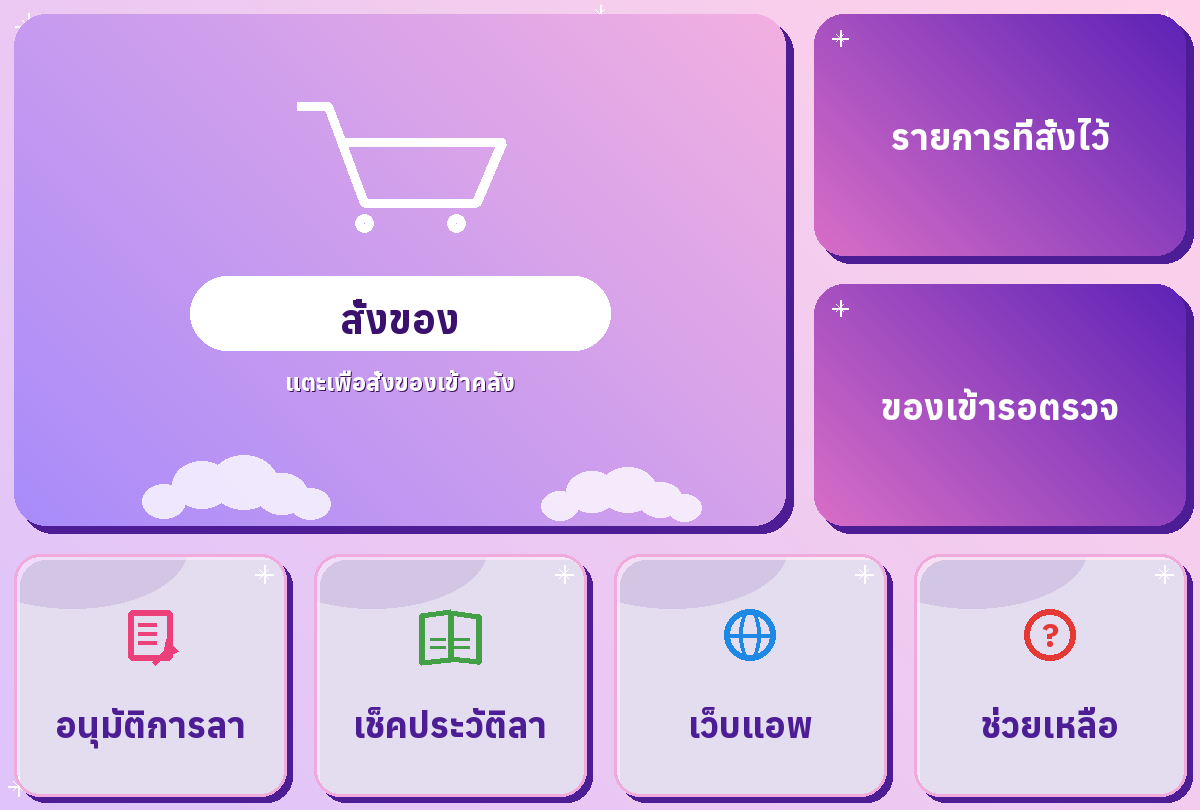
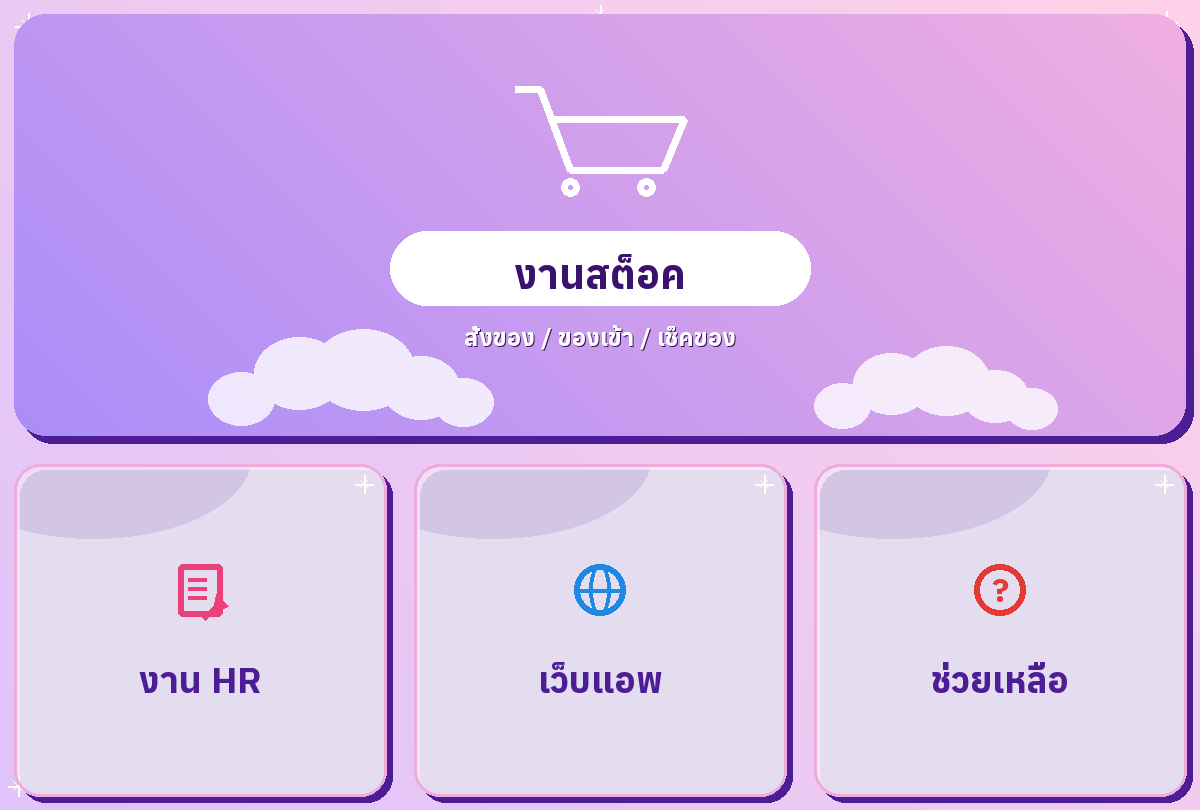
Fix stock-in approve race condition, add undo command, redesign boss/dev menu
addMovement() only appended to stock_movements while updateMovement() did a full
read-modify-write overwrite on the same sheet — a race between the two could silently
drop a just-approved movement (found via production data audit: 12 matched stock-in
requests referencing movement_ids that never landed, 2026-08-01..05). Added
verify-after-append retry to addMovement(), and backfilled the 7 unique missing
movements so those approved quantities actually reflect in stock now.

Added a LINE undo path ("แก้ไขของเข้า") for approve/reject mistakes: undoStockInDecision()
reverses a matched request via a compensating adjust movement (never deletes history) and
resets the request to pending; a rejected request just resets to pending. Also unlinks
any matched order-lot so it goes back to the queue.

Redesigned the boss/dev rich menu: 8 buttons was too cramped, consolidated into the
same hero+3-card structure as the staff tier — "งานสต็อค" and "งาน HR" now open a LINE
quick reply for their sub-actions instead of each getting a dedicated button. Verified
scope stays boss/dev-only (stock/staff tier files untouched) and every quick-reply
option maps to a real existing trigger.

diff --git a/api/sheet-tools.js b/api/sheet-tools.js
@@ -11,7 +11,7 @@ import {
 } from './_lib/leaveCoverage.js'
 import { applyScheduleOverrides, LEGACY_OVERRIDE_EXEMPT_CODES } from './_lib/scheduleOverrides.js'
 import { isoDate } from './_lib/dates.js'
-import opInventory, { computeLowStockList, createOrderRequest, createOrderRequestForGroup, loadOrderGroups, addStockInRequest, matchStockInRequest, rejectStockInRequest, editStockInRequest, getStockInRequestById, loadStockInRequests, loadItemsWithBalance, isPackagingItem } from './_lib/inventory.js'
+import opInventory, { computeLowStockList, createOrderRequest, createOrderRequestForGroup, loadOrderGroups, addStockInRequest, matchStockInRequest, rejectStockInRequest, undoStockInDecision, editStockInRequest, getStockInRequestById, loadStockInRequests, loadItemsWithBalance, isPackagingItem } from './_lib/inventory.js'
 import opImportTracking from './_lib/importTracking.js'
 
 // ปิด body parser อัตโนมัติของ Vercel — ต้องอ่าน raw body เองเพื่อตรวจลายเซ็น LINE webhook (HMAC ต้องใช้ byte ดิบ)
@@ -1343,6 +1343,14 @@ const BOSS_LEAVE_HISTORY_TRIGGER = 'เช็คประวัติ'
 // เพดาน 10 รายการต่อการ์ด เกินกว่านั้นให้กดปุ่มเปิดเว็บไปดูที่ Stock Movement แทน (LINE การ์ดยาวเกินไปอ่านยาก)
 const ORDER_LIST_TRIGGER = 'รายการที่สั่งไว้'
 const ORDER_LIST_LIMIT = 10
+// ปุ่ม "แก้ไขของเข้า" — ย้อนกลับ approve/ปฏิเสธที่กดผิดใน LINE (owner ขอ 2026-08-11 คู่กับบั๊ก race
+// condition ที่เจอ: บาง approve ไม่เข้า stock จริง) แสดงรายการล่าสุดที่ approve/ปฏิเสธไปแล้วให้เลือกย้อนกลับ
+const STOCK_IN_UNDO_TRIGGER = 'แก้ไขของเข้า'
+const STOCK_IN_UNDO_LIMIT = 5 // LINE reply รับได้สูงสุด 5 ข้อความต่อครั้ง (1 การ์ด = 1 ข้อความ)
+// รวบปุ่ม boss/dev ที่แน่นเกินไป (8 ปุ่ม) เหลือ hero เดียวต่อหมวด — เลือกจริงผ่าน quick reply ที่ยิง
+// ข้อความเดิม (เช่น "สั่งของ") กลับเข้ามาเหมือนพิมพ์เอง ไม่ต้องเขียน handler ใหม่ (owner ขอ 2026-08-11)
+const STOCK_MENU_TRIGGER = 'งานสต็อค'
+const HR_MENU_TRIGGER = 'งาน HR'
 const appWebUrl = (tab) => `${APP_BASE_URL}/${tab ? `?tab=${encodeURIComponent(tab)}` : ''}`
 
 async function handleOrderListCommand(event) {
@@ -1378,6 +1386,68 @@ async function handleOrderListCommand(event) {
       body: { type: 'box', layout: 'vertical', paddingAll: '10px', spacing: 'xs', backgroundColor: ORDER_CARD.soft, contents: rows },
       ...(footerButtons.length ? { footer: { type: 'box', layout: 'horizontal', spacing: 'xs', paddingAll: '8px', backgroundColor: ORDER_CARD.base, contents: footerButtons } } : {}),
     },
+  }])
+}
+
+// รายการ approve/ปฏิเสธล่าสุด ให้เลือกย้อนกลับ (undoStockInDecision) — เผื่อกดผิด/มีของเข้าไม่ครบตามที่คิด
+async function handleStockInUndoListCommand(event) {
+  const lineUserId = event.source?.userId
+  const replyToken = event.replyToken
+  const approver = lineUserId ? await findStockApprover(lineUserId) : null
+  if (!approver) return replyMessage(replyToken, [{ type: 'text', text: 'เฉพาะ Boss หรือ Dev เท่านั้นที่แก้ไขย้อนหลังได้ค่ะ' }])
+  const all = await loadStockInRequests({ role: approver.role })
+  const decided = all.filter((r) => r.status === 'matched' || r.status === 'rejected')
+  decided.sort((a, b) => String(b.matched_at).localeCompare(String(a.matched_at)))
+  const recent = decided.slice(0, STOCK_IN_UNDO_LIMIT)
+  if (!recent.length) return replyMessage(replyToken, [{ type: 'text', text: 'ยังไม่มีรายการที่ approve หรือปฏิเสธไว้ค่ะ' }])
+  const items = await loadOrderableItems()
+  const cards = recent.map((r) => {
+    const item = items.find((it) => String(it.sku).toUpperCase() === String(r.sku).toUpperCase())
+    const label = item?.display_name || r.sku
+    const statusText = r.status === 'matched' ? `✅ Approve แล้ว × ${r.qty}${item?.unit || ''}` : '✗ ปฏิเสธแล้ว'
+    return {
+      type: 'flex', altText: `${label} — ${statusText}`,
+      contents: {
+        type: 'bubble', size: 'kilo',
+        header: stockCardHeader('แก้ไขของเข้า', `${(r.matched_at || '').slice(0, 10)} · โดย ${r.matched_by || '-'}`, '↩'),
+        body: { type: 'box', layout: 'vertical', paddingAll: '10px', spacing: 'xs', backgroundColor: STOCK_CARD.soft, contents: [stockInItemRow(r.id, label, statusText)] },
+        footer: { type: 'box', layout: 'horizontal', spacing: 'xs', paddingAll: '8px', backgroundColor: STOCK_CARD.base, contents: [
+          stockCardButton({ type: 'postback', label: 'ย้อนกลับ', data: `stockin-undo:${r.id}`, displayText: `ย้อนกลับ ${label}` }, true),
+        ] },
+      },
+    }
+  })
+  await replyMessage(replyToken, cards.slice(0, 5))
+}
+
+async function handleStockMenuCommand(event) {
+  const lineUserId = event.source?.userId
+  const replyToken = event.replyToken
+  const approver = lineUserId ? await findStockApprover(lineUserId) : null
+  if (!approver) return replyMessage(replyToken, [{ type: 'text', text: 'เฉพาะ Boss หรือ Dev เท่านั้นค่ะ' }])
+  return replyMessage(replyToken, [{
+    type: 'text', text: 'งานสต็อค — เลือกได้เลยค่ะ',
+    quickReply: { items: [
+      { type: 'action', action: { type: 'message', label: 'สั่งของ', text: 'สั่งของ' } },
+      { type: 'action', action: { type: 'message', label: 'ของเข้ารอตรวจ', text: STOCK_PENDING_TRIGGER } },
+      { type: 'action', action: { type: 'message', label: 'รายการที่สั่งไว้', text: ORDER_LIST_TRIGGER } },
+      { type: 'action', action: { type: 'message', label: 'เช็คของ', text: 'เช็คของ' } },
+      { type: 'action', action: { type: 'message', label: 'แก้ไขของเข้า', text: STOCK_IN_UNDO_TRIGGER } },
+    ] },
+  }])
+}
+
+async function handleHrMenuCommand(event) {
+  const lineUserId = event.source?.userId
+  const replyToken = event.replyToken
+  const approver = lineUserId ? await findStockApprover(lineUserId) : null
+  if (!approver) return replyMessage(replyToken, [{ type: 'text', text: 'เฉพาะ Boss หรือ Dev เท่านั้นค่ะ' }])
+  return replyMessage(replyToken, [{
+    type: 'text', text: 'งาน HR — เลือกได้เลยค่ะ',
+    quickReply: { items: [
+      { type: 'action', action: { type: 'message', label: 'อนุมัติการลา', text: LEAVE_PENDING_TRIGGER } },
+      { type: 'action', action: { type: 'message', label: 'เช็คประวัติลา', text: BOSS_LEAVE_HISTORY_TRIGGER } },
+    ] },
   }])
 }
 
@@ -1474,11 +1544,10 @@ async function handleHelpCommand(event) {
   const tier = richMenuTierForRole(role, username)
   const guide = {
     full: [
+      `📦 พิมพ์ "${STOCK_MENU_TRIGGER}" — เมนูรวมงานสต็อค (สั่งของ/ของเข้ารอตรวจ/รายการที่สั่งไว้/เช็คของ/แก้ไขของเข้า)`,
+      `📝 พิมพ์ "${HR_MENU_TRIGGER}" — เมนูรวมงาน HR (อนุมัติการลา/เช็คประวัติลา)`,
       '📦 พิมพ์ "แจ้งของเข้า" — บันทึกของเข้าที่นับได้จริง',
-      '🛒 พิมพ์ "สั่งของ" — สั่งของเข้าคิวรอของเข้า',
-      `📋 พิมพ์ "${STOCK_PENDING_TRIGGER}" — ดูของเข้าที่ยังรอ Approve`,
-      `📝 พิมพ์ "${LEAVE_PENDING_TRIGGER}" — ดูคำขอลาที่ยังรออนุมัติ`,
-      '🏖 ขอลา/เปิดเว็บแอพ — กดปุ่มในเมนูด้านล่างแชทได้เลย',
+      '🏖 เว็บแอพ — กดปุ่มในเมนูด้านล่างแชทได้เลย',
     ],
     stock: ['📦 พิมพ์ "แจ้งของเข้า" — บันทึกของเข้าที่นับได้จริง', '🏖 ขอลา/เปิดเว็บแอพ — กดปุ่มในเมนูด้านล่างแชทได้เลย'],
     staff: ['🏖 พิมพ์ "ลา" — เริ่มขอลา', '📖 พิมพ์ "ประวัติลา" — ดูประวัติการลาปีนี้', '📊 พิมพ์ "สรุปลา" — ดูวันลาคงเหลือ'],
@@ -3024,7 +3093,7 @@ async function opLineWebhook(req, res) {
         // 2026-08-06: ค้างขั้นตอนลาอยู่ กดช่วยเหลือ ต้องสลับได้ทันที ไม่ใช่แค่ตอบไม่ได้เงียบๆ) เคลียร์ session
         // ทั้ง 3 ชุด (สั่งของ/แจ้งของเข้า/ตัวช่วยขอลา) ทิ้งก่อนเข้า handler จริงข้างล่าง กันของเก่าค้างสับสน
         const isAnyMenuCommand = initialQuery === '' || initialInQuery === '' ||
-          [STOCK_PENDING_TRIGGER, LEAVE_PENDING_TRIGGER, HELP_TRIGGER, BOSS_LEAVE_HISTORY_TRIGGER, ORDER_LIST_TRIGGER, LEAVE_TRIGGER, LEAVE_HISTORY_TRIGGER, LEAVE_SUMMARY_TRIGGER].includes(event.message.text)
+          [STOCK_PENDING_TRIGGER, LEAVE_PENDING_TRIGGER, HELP_TRIGGER, BOSS_LEAVE_HISTORY_TRIGGER, ORDER_LIST_TRIGGER, STOCK_IN_UNDO_TRIGGER, STOCK_MENU_TRIGGER, HR_MENU_TRIGGER, LEAVE_TRIGGER, LEAVE_HISTORY_TRIGGER, LEAVE_SUMMARY_TRIGGER].includes(event.message.text)
         if (isAnyMenuCommand) {
           await clearStockOrderSession(lineUserId)
           await clearStockInSession(lineUserId)
@@ -3040,6 +3109,9 @@ async function opLineWebhook(req, res) {
         if (event.message.text === HELP_TRIGGER) { await handleHelpCommand(event); continue }
         if (event.message.text === BOSS_LEAVE_HISTORY_TRIGGER) { await handleBossLeaveHistoryCommand(event); continue }
         if (event.message.text === ORDER_LIST_TRIGGER) { await handleOrderListCommand(event); continue }
+        if (event.message.text === STOCK_IN_UNDO_TRIGGER) { await handleStockInUndoListCommand(event); continue }
+        if (event.message.text === STOCK_MENU_TRIGGER) { await handleStockMenuCommand(event); continue }
+        if (event.message.text === HR_MENU_TRIGGER) { await handleHrMenuCommand(event); continue }
         // คำสั่ง “เช็คของที่ต้องสั่ง” ดูได้ทุกเมื่อจากทุกขั้นตอนเหมือนกัน — ไม่ต้องรอการ์ดแจ้งเตือนรายวัน
         if (isStockCheckCommand(event.message.text) && await handleStockCheckCommand(event)) continue
         // คำสั่ง “สั่งของ”/“แจ้งของเข้า” เริ่มใหม่ได้จากทุกขั้นตอน รวมถึงตอนที่รอจำนวนหรือรอเลือกวันที่
@@ -3239,6 +3311,26 @@ async function opLineWebhook(req, res) {
             ? `ปฏิเสธสำเร็จ ${rejected.length} รายการ\nไม่สำเร็จ: ${failed.join('; ')}`
             : `ปฏิเสธสำเร็จ ${rejected.length} รายการ โดย ${approver.name}${notifyResult}`,
         }])
+        continue
+      }
+      if (data.startsWith('stockin-undo:')) {
+        const approver = lineUserId ? await findStockApprover(lineUserId) : null
+        if (!approver) {
+          if (event.replyToken) await replyMessage(event.replyToken, [{ type: 'text', text: 'ไม่มีสิทธิ์ย้อนกลับ: กรุณาผูก LINE กับบัญชี Boss ในระบบก่อนค่ะ' }])
+          continue
+        }
+        const id = data.slice('stockin-undo:'.length).trim()
+        try {
+          const items = await loadOrderableItems()
+          const before = await getStockInRequestById(id)
+          const item = items.find((it) => String(it.sku).toUpperCase() === String(before?.sku).toUpperCase())
+          const label = item?.display_name || before?.sku || id
+          const reverted = await undoStockInDecision({ id }, approver.name, approver.role)
+          if (event.replyToken) await replyMessage(event.replyToken, [{ type: 'text', text: `ย้อนกลับ "${label}" แล้ว โดย ${approver.name} — กลับไปรอ approve/ปฏิเสธใหม่ค่ะ` }])
+          await announceStockInResultToGroup(`↩ ${approver.name} ย้อนกลับรายการ "${label}" (${before?.status === 'matched' ? 'เคย Approve' : 'เคยปฏิเสธ'})`)
+        } catch (e) {
+          if (event.replyToken) await replyMessage(event.replyToken, [{ type: 'text', text: `ทำรายการไม่สำเร็จ: ${e.message}` }])
+        }
         continue
       }
 

diff --git a/api/_lib/inventory.js b/api/_lib/inventory.js
@@ -471,7 +471,18 @@ async function addMovement(body, actorName) {
     created_by: actorName || '',
     created_at: now,
   }
-  await appendRows(MOVEMENTS_SHEET, [MOVEMENTS_HEADERS.map((h) => row[h] ?? '')])
+  const rowValues = MOVEMENTS_HEADERS.map((h) => row[h] ?? '')
+  await appendRows(MOVEMENTS_SHEET, [rowValues])
+  // verify-and-retry: updateMovement/deleteMovement ทำ read-modify-write ทับทั้งชีทนี้ (overwriteSheet) —
+  // ถ้าจังหวะชนกับ append ตรงนี้พอดี (คนละ request เข้ามาพร้อมกัน) การ overwrite จะอ่าน snapshot เก่าที่ยัง
+  // ไม่เห็นแถวที่เพิ่ง append แล้วเขียนทับ ลบแถวนี้หายไปเงียบๆ โดย appendRows ไม่ throw เลย — เจอจริงจากข้อมูล
+  // production (ของเข้า approve ผ่าน LINE 12 รายการ หายไปช่วง 2026-08-01..05 แต่สถานะคำขอบอกว่า matched แล้ว)
+  // เช็คย้อนกลับหลัง append ถ้าไม่เจอ ลองใหม่ (สูงสุด 2 ครั้ง)
+  for (let attempt = 0; attempt < 2; attempt++) {
+    const check = await getSheet(MOVEMENTS_SHEET)
+    if (check.some((m) => m.id === row.id)) break
+    await appendRows(MOVEMENTS_SHEET, [rowValues])
+  }
   return row
 }
 
@@ -661,6 +672,40 @@ export async function rejectStockInRequest(body, actorName, role) {
   requests[idx] = { ...requests[idx], status: 'rejected', matched_by: actorName || '', matched_at: now, reject_reason: body.note || '' }
   await overwriteSheet(STOCK_IN_REQUESTS_SHEET, STOCK_IN_REQUESTS_HEADERS, requests.map((r) => STOCK_IN_REQUESTS_HEADERS.map((h) => r[h] ?? '')))
   return requests[idx]
+}
+
+// ย้อนกลับ approve/ปฏิเสธที่กดพลาดใน LINE (owner ขอ 2026-08-11 คู่กับบั๊ก race condition ที่เจอ) — boss/dev
+// เท่านั้น matched: ไม่ลบ movement เดิม (ประวัติต้องอยู่ตามธรรมเนียมไฟล์นี้ทั้งไฟล์) แต่สร้าง adjust ย้อนยอด
+// แทน แล้ว reset คำขอกลับเป็น pending ให้ approve/ปฏิเสธใหม่ได้ถูกต้อง — ถ้าเคยผูกลอต "สั่งของ" ไว้ตอน match
+// ด้วย ปลดลอตนั้นกลับ pending เช่นกัน (ไม่งั้นลอตค้าง matched ทั้งที่ของจริงถูกย้อนกลับไปแล้ว)
+// rejected: แค่ reset สถานะกลับ pending เฉยๆ (ไม่เคยมี movement ให้ย้อน)
+export async function undoStockInDecision(body, actorName, role) {
+  if (authEnabled() && !canManageOperations(role)) throw new Error('เฉพาะ Boss หรือ Dev เท่านั้นที่ย้อนกลับได้')
+  const id = String(body.id || '').trim()
+  if (!id) throw new Error('ต้องระบุ id')
+
+  await ensureInventorySheets()
+  const requests = await getSheet(STOCK_IN_REQUESTS_SHEET)
+  const idx = requests.findIndex((r) => String(r.id) === id)
+  if (idx === -1) throw new Error('ไม่พบคำขอนี้')
+  const req = requests[idx]
+  if (req.status !== 'matched' && req.status !== 'rejected') throw new Error('ย้อนกลับได้เฉพาะรายการที่ approve หรือปฏิเสธไปแล้ว')
+
+  if (req.status === 'matched' && req.movement_id) {
+    await addMovement({
+      sku: req.sku, type: 'adjust', qty: -Math.abs(num(req.qty)),
+      date: todayBKK(), note: `ย้อนกลับ approve ที่กดพลาด (คำขอ ${id} · movement เดิม ${req.movement_id})`,
+    }, actorName)
+  }
+
+  const now = new Date().toISOString()
+  requests[idx] = { ...req, status: 'pending', matched_by: '', matched_at: '', movement_id: '', reject_reason: '', linked_order_id: '' }
+  if (req.linked_order_id) {
+    const orderIdx = requests.findIndex((r) => String(r.id) === String(req.linked_order_id))
+    if (orderIdx !== -1) requests[orderIdx] = { ...requests[orderIdx], status: 'pending', matched_by: '', matched_at: '', movement_id: '' }
+  }
+  await overwriteSheet(STOCK_IN_REQUESTS_SHEET, STOCK_IN_REQUESTS_HEADERS, requests.map((r) => STOCK_IN_REQUESTS_HEADERS.map((h) => r[h] ?? '')))
+  return { ...requests[idx], undone_from_status: req.status }
 }
 
 // ฟ้าแก้ไขคำขอที่ถูกปฏิเสธแล้วส่งกลับเข้าคิวรอ match ใหม่ (ไม่ต้องพิมพ์แจ้งของเข้าใหม่ทั้งหมด)

diff --git a/scripts/gen-richmenu-images.py b/scripts/gen-richmenu-images.py
@@ -362,27 +362,24 @@ def draw_hero_layout(filename, width, height, heroes, side_pills, bottom_cards, 
     base.convert("RGB").save(os.path.join(OUT_DIR, filename), "PNG")
     print(filename, base.size)
 
-# ── Full tier (Boss/Dev) — 1200x810 — owner ขอ 2026-08-06 (v6, final): กลับไปโครงแบบเดียวกับ stock tier
-# (hero ใหญ่ + pill 2 ใบด้านข้าง + การ์ดล่าง 4 ใบเท่ากันธรรมดา ไม่มี group panel/red badge แล้ว) — hero คือ
-# "สั่งของ" (ปุ่มหลักที่ใช้บ่อยสุด) ส่วน "แจ้งของเข้า"/"ของเข้ารอตรวจ" ไปอยู่ pill ด้านข้างแทน
+# ── Full tier (Boss/Dev) — 1200x810 — owner ขอ 2026-08-11 (v3): เอาโครง staff tier มาใช้ (hero เต็มกว้าง
+# ไม่มี pill ข้าง + การ์ดล่าง 3 ใบเท่ากัน) — hero "งานสต็อค" (quick reply รวม สั่งของ/ของเข้ารอตรวจ/
+# รายการที่สั่งไว้/เช็คของ/แก้ไขของเข้า) + การ์ดล่าง "งาน HR" (quick reply รวม อนุมัติการลา/เช็คประวัติลา)/
+# "เว็บแอพ"/"ช่วยเหลือ"
 draw_hero_layout(
     "richmenu-full.png", 1200, 810,
     heroes=[
-        {"icon": "cart", "label": "สั่งของ", "subtitle": "แตะเพื่อสั่งของเข้าคลัง"},
+        {"icon": "cart", "label": "งานสต็อค", "subtitle": "สั่งของ / ของเข้า / เช็คของ"},
     ],
-    side_pills=[
-        {"label": "รายการที่สั่งไว้"},
-        {"label": "ของเข้ารอตรวจ"},
-    ],
+    side_pills=[],
     bottom_cards=[
-        {"icon": "note_edit", "label": "อนุมัติการลา"},
-        {"icon": "book", "label": "เช็คประวัติลา"},
+        {"icon": "note_edit", "label": "งาน HR"},
         {"icon": "globe", "label": "เว็บแอพ"},
         {"icon": "question", "label": "ช่วยเหลือ"},
     ],
-    hero_boxes=[(0, 0, 800, 540)],
-    pill_boxes=[(800, 0, 1200, 270), (800, 270, 1200, 540)],
-    card_boxes=[(0, 540, 300, 810), (300, 540, 600, 810), (600, 540, 900, 810), (900, 540, 1200, 810)],
+    hero_boxes=[(0, 0, 1200, 450)],
+    pill_boxes=[],
+    card_boxes=[(0, 450, 400, 810), (400, 450, 800, 810), (800, 450, 1200, 810)],
 )
 
 # ── Stock tier (ฟ้า/แตง) — 1200x810 (ขยายจาก 800x540 เดิม ใส่ เช็คประวัติ/เช็ควันลาคงเหลือ เพิ่มตามที่ขอ) ──
